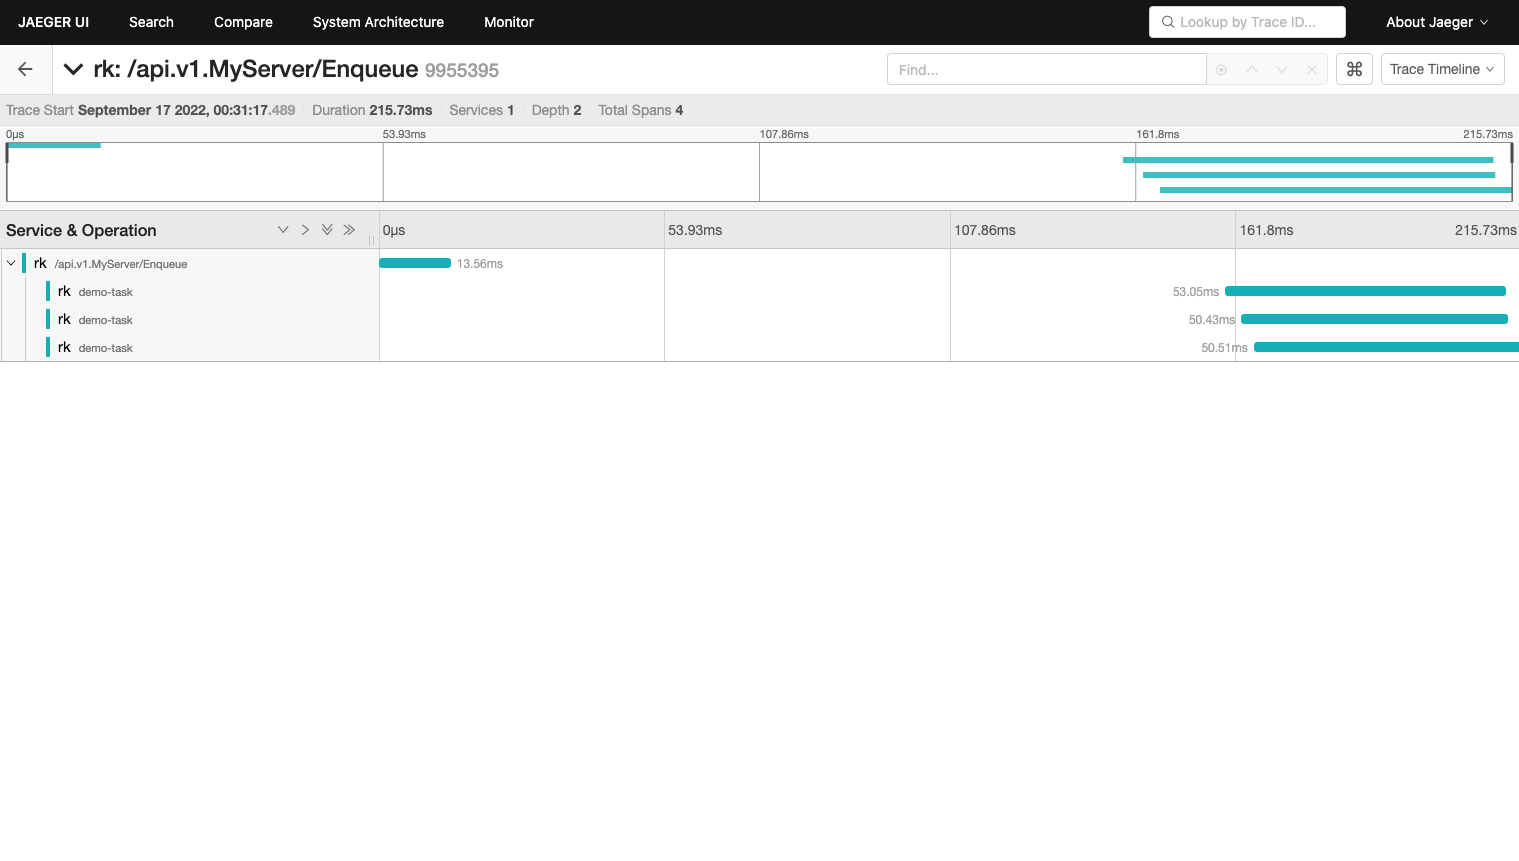
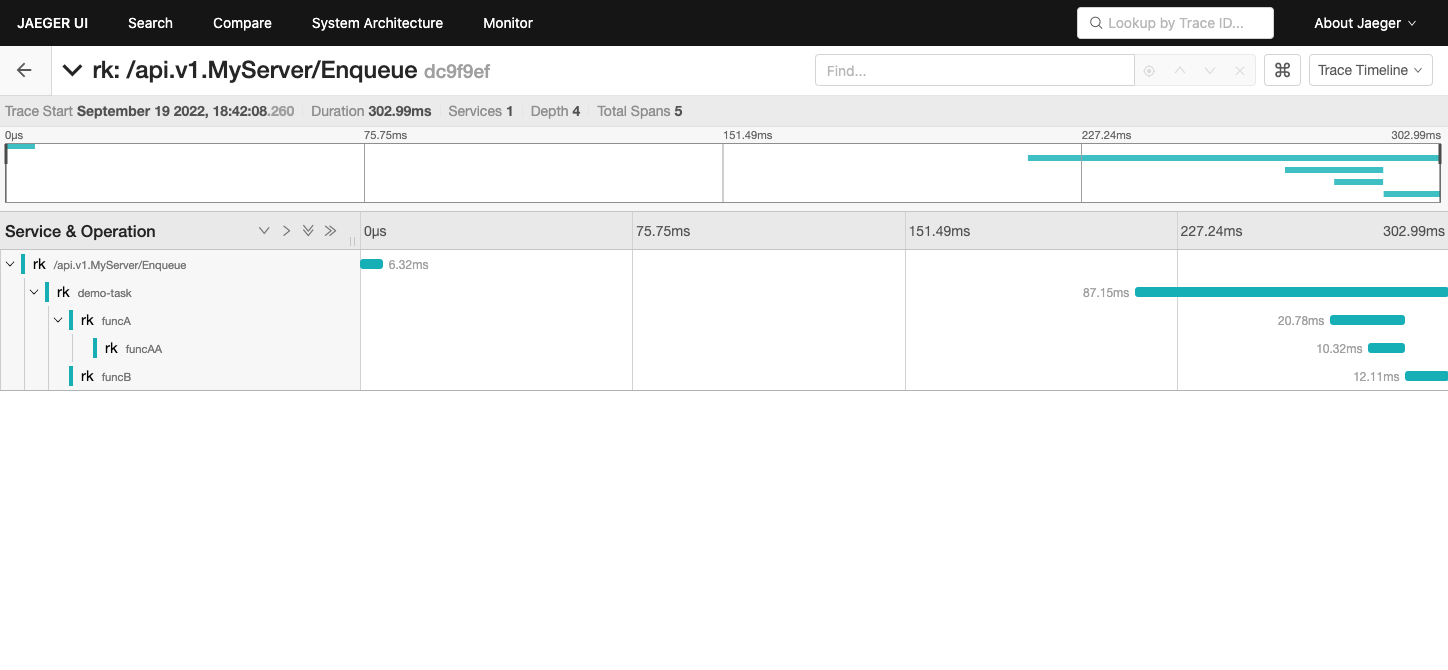
Update grpc/v1/asynq-jaeger example

Changed region(s): [[0.0, 0.0, 1.0, 0.5672], [0.1865, 0.3284, 0.2175, 0.3582]]

diff --git a/grpc/v2/asynq-jaeger/server.go b/grpc/v2/asynq-jaeger/server.go
@@ -6,15 +6,18 @@ import (
 	"github.com/hibiken/asynq"
 	"github.com/rookie-ninja/rk-boot/v2"
 	"github.com/rookie-ninja/rk-demo/api/gen/v1"
-	mytask "github.com/rookie-ninja/rk-demo/task"
+	"github.com/rookie-ninja/rk-demo/task"
+	"github.com/rookie-ninja/rk-entry/v2/entry"
 	"github.com/rookie-ninja/rk-grpc/v2/boot"
 	"github.com/rookie-ninja/rk-grpc/v2/middleware/context"
+	"github.com/rookie-ninja/rk-repo/asynq"
 	"go.opentelemetry.io/otel/propagation"
+	"go.uber.org/zap"
 	"google.golang.org/grpc"
 	"net/http"
 )
 
-//go:embed grpc-server.yaml
+//go:embed boot.yaml
 var bootYAML []byte
 
 func main() {
@@ -28,8 +31,38 @@ func main() {
 	// Bootstrap
 	boot.Bootstrap(context.TODO())
 
+	asynqServer := startAsynqWorker(grpcEntry.LoggerEntry.Logger)
+	boot.AddShutdownHookFunc("asynq worker", asynqServer.Stop)
+
 	// Wait for shutdown sig
 	boot.WaitForShutdownSig(context.TODO())
+}
+
+func startAsynqWorker(logger *zap.Logger) *asynq.Server {
+	// start asynq service
+	srv := asynq.NewServer(
+		asynq.RedisClientOpt{Addr: "127.0.0.1:6379"},
+		asynq.Config{
+			Logger: logger.Sugar(),
+		},
+	)
+
+	// mux maps a type to a handler
+	mux := asynq.NewServeMux()
+	mux.HandleFunc(task.TypeDemo, task.HandleDemoTask)
+
+	// add jaeger middleware
+	jaegerMid, err := rkasynq.NewJaegerMid(bootYAML)
+	if err != nil {
+		rkentry.ShutdownWithError(err)
+	}
+	mux.Use(jaegerMid)
+
+	if err := srv.Start(mux); err != nil {
+		rkentry.ShutdownWithError(err)
+	}
+
+	return srv
 }
 
 func registerMyServer(server *grpc.Server) {
@@ -47,14 +80,12 @@ func (server *MyServer) Enqueue(ctx context.Context, req *greeter.TaskReq) (*gre
 	rkgrpcctx.GetTracerPropagator(ctx).Inject(ctx, propagation.HeaderCarrier(header))
 
 	err := server.enqueueTask(client, header)
-	err = server.enqueueTask(client, header)
-	err = server.enqueueTask(client, header)
 
 	return &greeter.TaskResp{}, err
 }
 
 func (server *MyServer) enqueueTask(client *asynq.Client, header http.Header) error {
-	task, err := mytask.NewDemoTask(header)
+	task, err := task.NewDemoTask(header)
 	_, err = client.Enqueue(task)
 	return err
 }

diff --git a/grpc/v2/asynq-jaeger/task/task.go b/grpc/v2/asynq-jaeger/task/task.go
@@ -6,7 +6,7 @@ import (
 	"fmt"
 	"github.com/hibiken/asynq"
 	"github.com/rookie-ninja/rk-entry/v2/entry"
-	rkasynq "github.com/rookie-ninja/rk-repo/asynq"
+	"github.com/rookie-ninja/rk-repo/asynq"
 	"go.uber.org/zap"
 	"net/http"
 	"time"
@@ -43,5 +43,31 @@ func HandleDemoTask(ctx context.Context, t *asynq.Task) error {
 
 	rkentry.GlobalAppCtx.GetLoggerEntryDefault().Info("handle demo task", zap.String("traceId", rkasynq.GetTraceId(ctx)))
 
+	CallFuncA(ctx)
+	CallFuncB(ctx)
+
 	return nil
+}
+
+func CallFuncA(ctx context.Context) {
+	newCtx, span := rkasynq.NewSpan(ctx, "funcA")
+	defer rkasynq.EndSpan(span, true)
+
+	time.Sleep(10 * time.Millisecond)
+
+	CallFuncAA(newCtx)
+}
+
+func CallFuncAA(ctx context.Context) {
+	_, span := rkasynq.NewSpan(ctx, "funcAA")
+	defer rkasynq.EndSpan(span, true)
+
+	time.Sleep(10 * time.Millisecond)
+}
+
+func CallFuncB(ctx context.Context) {
+	_, span := rkasynq.NewSpan(ctx, "funcB")
+	defer rkasynq.EndSpan(span, true)
+
+	time.Sleep(10 * time.Millisecond)
 }

diff --git a/grpc/v2/asynq-jaeger/README.md b/grpc/v2/asynq-jaeger/README.md
@@ -1,9 +1,7 @@
 # Example
 In this example, we will implement jaeger tracing between gRPC server and asynq worker server.
 
-[grpc-server](grpc-server.go) will listen on port 8080 at path of localhost:8080/v1/enqueue.
-
-[worker](worker.go) will start asynq worker server and consume tasks.
+[server](server.go) will listen on port 8080 at path of localhost:8080/v1/enqueue, also asynq worker will start
 
 gRPC request and asynq task will be in the same trace with different span.
 
@@ -14,8 +12,8 @@ go get github.com/rookie-ninja/rk-repo/asynq
 ```
 
 ## Quick start
-### 1.Create grpc-server.yaml and trace.yaml
-- grpc-server.yaml
+### 1.Create boot.yaml
+- boot.yaml
 
 ```yaml
 grpc:
@@ -31,11 +29,6 @@ grpc:
               enabled: true
       logging:
         enabled: true
-```
-
-- trace.yaml
-
-```yaml
 asynq:
   trace:
     enabled: true
@@ -45,8 +38,8 @@ asynq:
           enabled: true
 ```
 
-### 2.Create grpc-server.go and worker.go
-Please refer to [grpc-server.go](grpc-server.go) and [worker.go](worker.go) 
+### 2.Create server.go
+Please refer to [server.go](server.go)
 
 ### 3.Run jaeger-all-in-one locally
 ```shell
@@ -69,8 +62,7 @@ docker run -d --name jaeger \
 ### 4.Start grpc-server and worker
 
 ```shell
-$ go run grpc-server.go
-$ go run worker.go
+$ go run server.go
 ```
 
 ### 4.Validation
